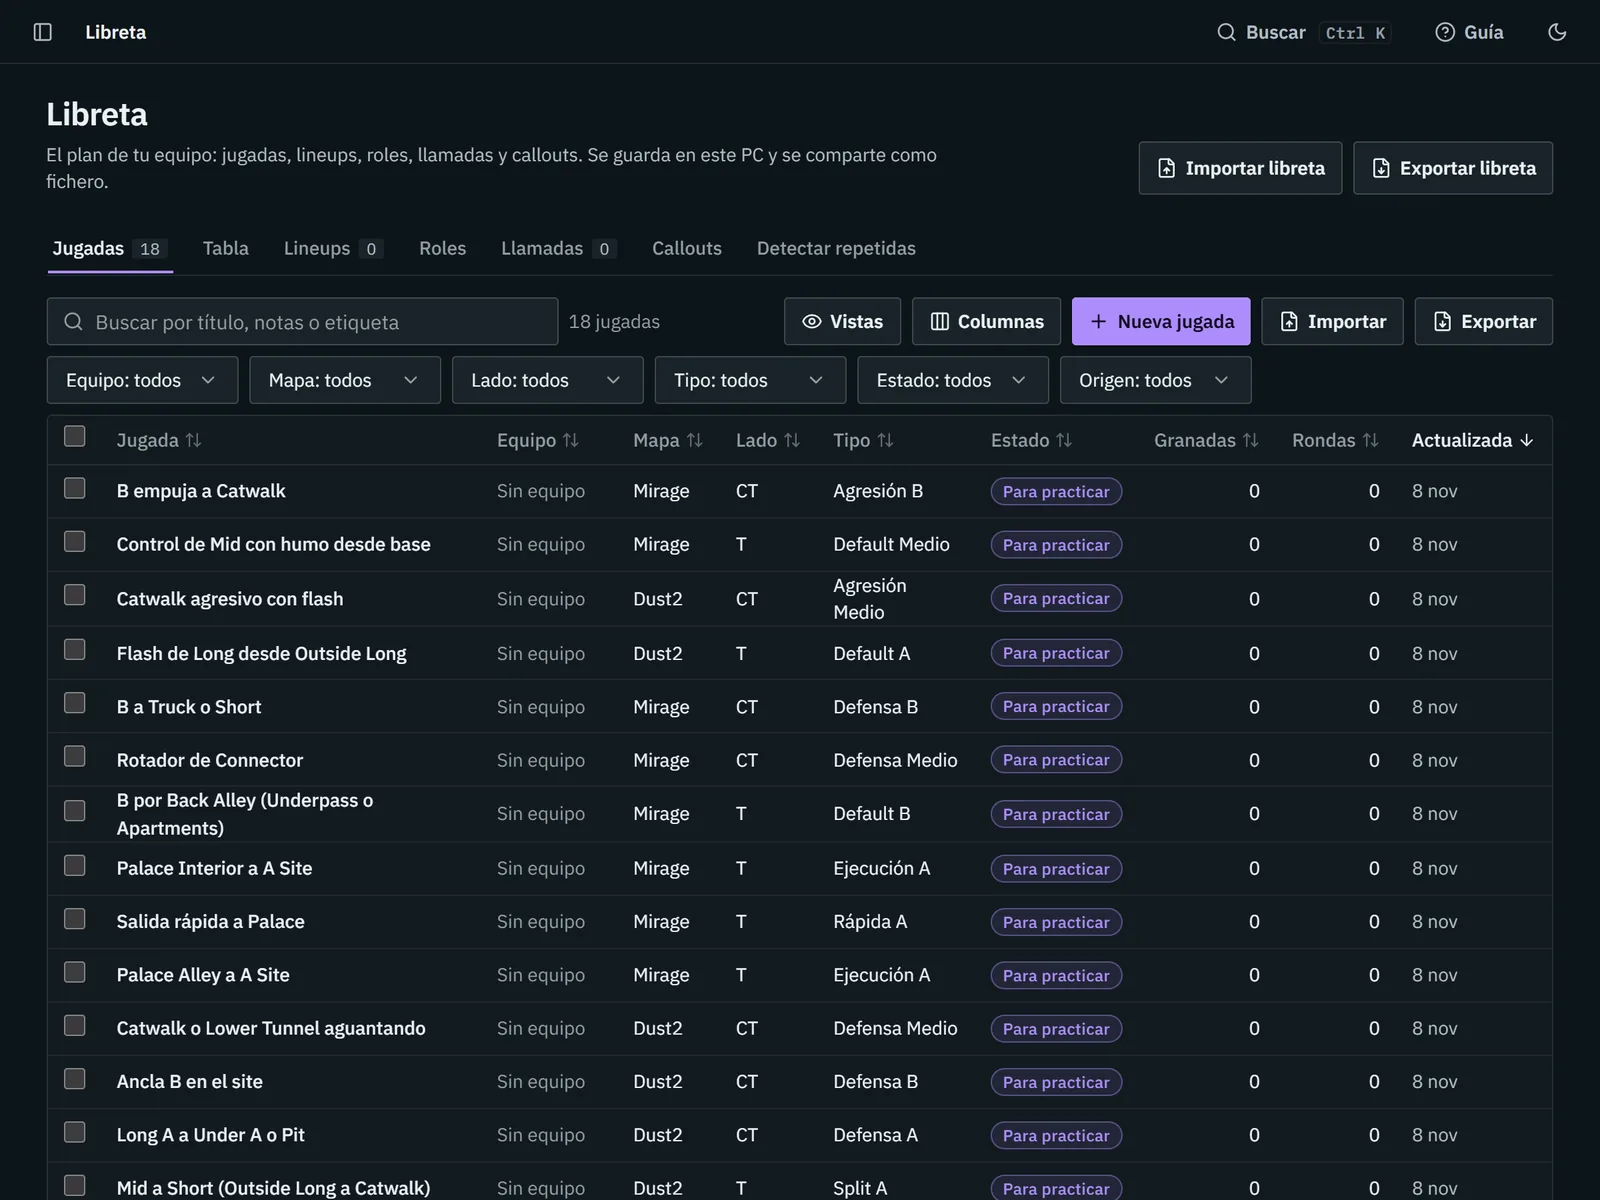
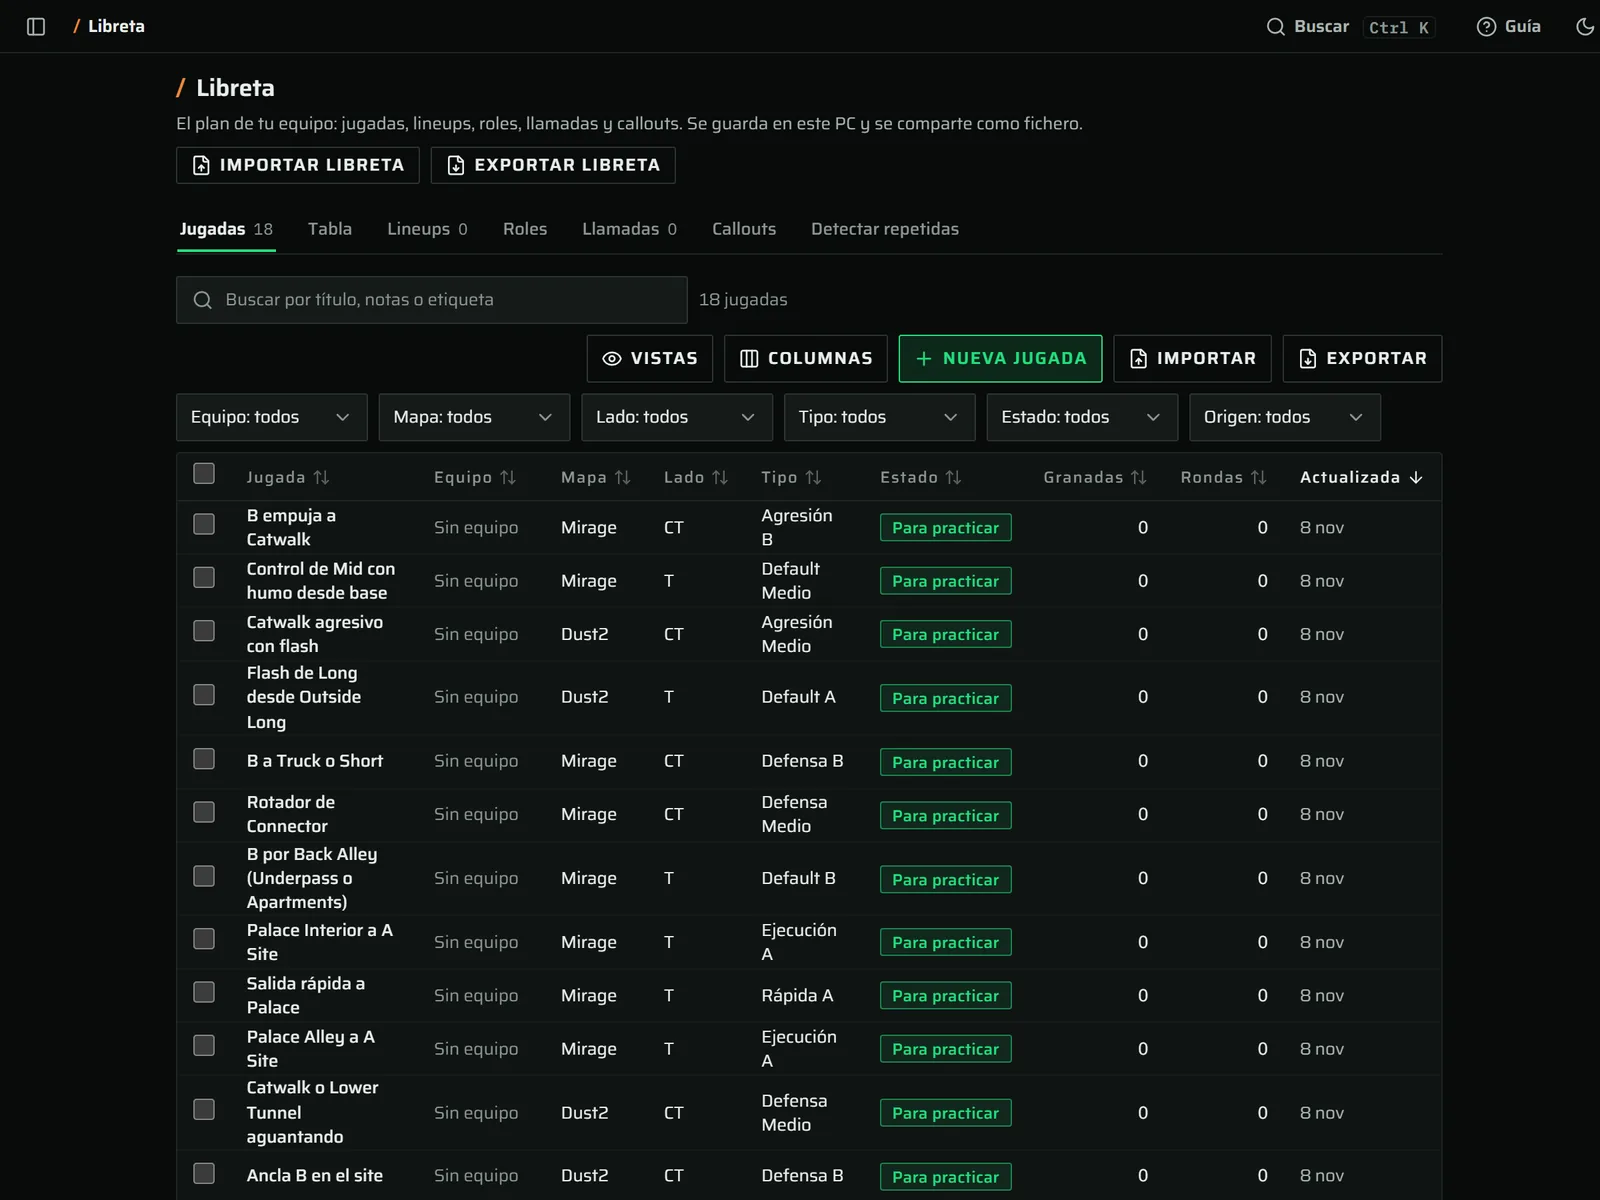
landing: capturas nuevas con datos reales de Iberian Soul
Sustituye las capturas moradas por pantallas del tema verde y reescribe
el visor con cifras reales: replay, bombsites, playbook, preparar,
estadísticas, probabilidad, partidos pro, lineups y libreta.

diff --git a/landing/lib/content.ts b/landing/lib/content.ts
@@ -85,27 +85,13 @@ export const VIEWER_TABS: readonly ViewerTab[] = [
     id: "replay",
     label: "Replay",
     shot: {
-      src: "/shots/partida-replay-heatmap.webp",
-      alt: "Replay 2D de Cache con el mapa de calor de posiciones de FUZOS en el lado T, y la lista de zonas con más actividad.",
-      caption: "Mapa de calor de un equipo en Cache, filtrado por lado y tramo de ronda.",
+      src: "/shots/replay.webp",
+      alt: "Replay 2D de la ronda 1 de Nemiga contra Iberian Soul en Mirage, con los diez jugadores sobre el radar, su vida, su dinero y la línea de tiempo de las 22 rondas.",
+      caption: "Nemiga contra Iberian Soul en Mirage, ronda a ronda, con cada jugador sobre el radar.",
       callouts: [
-        { value: "2747", label: "Posiciones en 15 rondas" },
-        { value: "33", label: "Muestras en Outside A" },
-        { value: "4", label: "Tramos de ronda" },
-      ],
-    },
-  },
-  {
-    id: "recorridos",
-    label: "Recorridos",
-    shot: {
-      src: "/shots/equipo-replay-patrones.webp",
-      alt: "Recorridos de ataque de Los Galacticos en Cache superpuestos sobre el radar, con el buscador de patrones y la lista de rondas.",
-      caption: "Todas las rutas de ataque de un equipo, y las rondas que cumplen un patrón.",
-      callouts: [
-        { value: "21/21", label: "Rondas con el patrón" },
-        { value: "57 %", label: "De ellas, ganadas" },
-        { value: "Caja", label: "Dibuja una zona y busca" },
+        { value: "22", label: "Rondas en el replay" },
+        { value: "10", label: "Jugadores en el radar" },
+        { value: "8 Hz", label: "Posiciones por segundo" },
       ],
     },
   },
@@ -113,13 +99,27 @@ export const VIEWER_TABS: readonly ViewerTab[] = [
     id: "bombsites",
     label: "Bombsites",
     shot: {
-      src: "/shots/equipo-bombsites.webp",
-      alt: "Tabla de bombsites de Los Galacticos: en Cache defendiendo, les atacan A el 56 % de las veces; atacando, ganan el 75 % de las rondas en A.",
-      caption: "Dónde ataca y dónde aguanta un rival, sitio a sitio.",
+      src: "/shots/bombsites.webp",
+      alt: "Tabla de bombsites de Iberian Soul en Mirage: defendiendo, les atacan A el 47 % de las veces; atacando A, plantan el 90 % y ganan el 60 % de las rondas.",
+      caption: "Dónde ataca y dónde aguanta Iberian Soul, sitio a sitio y mapa a mapa.",
       callouts: [
-        { value: "56 %", label: "Ataques rivales a A" },
-        { value: "75 %", label: "Ganadas atacando A" },
-        { value: "30 %", label: "Retakes ganados en A" },
+        { value: "47 %", label: "Ataques rivales a A" },
+        { value: "90 %", label: "Plantan cuando van a A" },
+        { value: "60 %", label: "Ganan atacando A" },
+      ],
+    },
+  },
+  {
+    id: "playbook",
+    label: "Playbook",
+    shot: {
+      src: "/shots/playbook.webp",
+      alt: "Playbook de Iberian Soul en Mirage de T: ganan el 75 % de sus ejecuciones y el 18 % de las rondas de control de mapa, en 23 rondas leídas.",
+      caption: "Las tácticas que repite el rival, cuántas veces y cuánto le funcionan.",
+      callouts: [
+        { value: "75 %", label: "Ganan sus ejecuciones" },
+        { value: "18 %", label: "Ganan con control de mapa" },
+        { value: "23", label: "Rondas de T en Mirage" },
       ],
     },
   },
@@ -127,13 +127,13 @@ export const VIEWER_TABS: readonly ViewerTab[] = [
     id: "preparar",
     label: "Preparar",
     shot: {
-      src: "/shots/equipo-preparar.webp",
-      alt: "Pantalla Preparar de Los Galacticos con la ficha de cada jugador: rol, rating de ClipHub, K/D, ADR, KPR y DPR en 107 rondas.",
-      caption: "Roles y forma de cada jugador del rival, mapa a mapa.",
+      src: "/shots/preparar.webp",
+      alt: "Pantalla Preparar de Iberian Soul con la ficha de sausoL, mopoz, alex, ag1l y dav1g: rol, rating de ClipHub, K/D, ADR, KPR y DPR en 219 rondas.",
+      caption: "Roles y forma de cada jugador del rival, antes de la llamada.",
       callouts: [
-        { value: "1,31", label: "Rating del entry" },
-        { value: "107", label: "Rondas leídas" },
-        { value: "5", label: "Mapas" },
+        { value: "1,20", label: "Rating de su entry" },
+        { value: "219", label: "Rondas leídas" },
+        { value: "11", label: "Mapas" },
       ],
     },
   },
@@ -141,13 +141,13 @@ export const VIEWER_TABS: readonly ViewerTab[] = [
     id: "estadisticas",
     label: "Estadísticas",
     shot: {
-      src: "/shots/equipo-estadisticas.webp",
-      alt: "Estadísticas por lado de Los Galacticos: 59 % de rondas ganadas de T y 57 % de CT, con pistolas, primera baja y trades frente a la media.",
+      src: "/shots/estadisticas.webp",
+      alt: "Estadísticas por lado de Iberian Soul: 51 % de rondas ganadas de T y 63 % de CT, con pistolas, primera baja, trades y utilidad frente a la media.",
       caption: "Cada cifra por lado, frente a la media de tu biblioteca.",
       callouts: [
-        { value: "59 %", label: "Rondas ganadas de T" },
-        { value: "+15 pp", label: "Sobre la media" },
-        { value: "57 %", label: "Rondas ganadas de CT" },
+        { value: "63 %", label: "Rondas ganadas de CT" },
+        { value: "+10 pp", label: "Sobre la media" },
+        { value: "82 %", label: "Pistolas ganadas de CT" },
       ],
     },
   },
@@ -155,13 +155,27 @@ export const VIEWER_TABS: readonly ViewerTab[] = [
     id: "probabilidad",
     label: "Probabilidad",
     shot: {
-      src: "/shots/partida-metricas.webp",
-      alt: "Gráfico de probabilidad de ganar cada ronda de Early Vacation contra FUZOS y las bajas que más movieron la probabilidad.",
-      caption: "Qué rondas se perdieron antes de empezar y qué bajas decidieron el partido.",
+      src: "/shots/probabilidad.webp",
+      alt: "Probabilidad de ganar cada ronda de Nemiga contra Iberian Soul en Mirage y las bajas que más la movieron, con khaN matando a dav1g en la ronda 6.",
+      caption: "Qué rondas se perdieron antes de empezar y qué bajas decidieron el mapa.",
       callouts: [
-        { value: "+82,9 pp", label: "La baja que más pesó" },
-        { value: "49 %", label: "Al empezar la ronda 1" },
-        { value: "15", label: "Rondas analizadas" },
+        { value: "+86,3 pp", label: "La baja que más pesó" },
+        { value: "52 %", label: "Al empezar la ronda 1" },
+        { value: "22", label: "Rondas analizadas" },
+      ],
+    },
+  },
+  {
+    id: "pro",
+    label: "Partidos pro",
+    shot: {
+      src: "/shots/partidas-pro.webp",
+      alt: "Lista de partidos pro de HLTV analizados por ClipHub: series al mejor de tres con sus vetos, sus mapas y su torneo, listas para abrir en el replay.",
+      caption: "Las series pro de los últimos días, con su veto, abiertas sin bajar la demo.",
+      callouts: [
+        { value: "0", label: "Demos que descargar" },
+        { value: "BO3", label: "Series con su veto" },
+        { value: "HLTV", label: "Partidos recientes" },
       ],
     },
   },
@@ -170,11 +184,11 @@ export const VIEWER_TABS: readonly ViewerTab[] = [
     label: "Lineups pro",
     shot: {
       src: "/shots/lineups.webp",
-      alt: "Lineups pro por mapa: Mirage con 765 lineups y 70 combos, Dust2 con 749, Ancient con 683, Cache, Nuke, Inferno y Anubis.",
+      alt: "Lineups pro por mapa: Mirage con 1107 lineups y 98 combos de 218 mapas pro, Dust2, Cache, Ancient, Nuke, Inferno y Anubis.",
       caption: "Las granadas que repiten los pros, leídas de sus demos.",
       callouts: [
-        { value: "765", label: "Lineups en Mirage" },
-        { value: "70", label: "Combos" },
+        { value: "1107", label: "Lineups en Mirage" },
+        { value: "98", label: "Combos" },
         { value: "7", label: "Mapas" },
       ],
     },
@@ -184,7 +198,7 @@ export const VIEWER_TABS: readonly ViewerTab[] = [
     label: "Libreta",
     shot: {
       src: "/shots/libreta.webp",
-      alt: "La libreta del equipo con 18 jugadas por mapa y lado: B empuja a Catwalk, control de Mid con humo desde base y otras.",
+      alt: "La libreta del equipo con 18 jugadas por mapa y lado: B empuja a Catwalk, control de Mid con humo desde base y otras, cada una con su estado.",
       caption: "El stratbook del equipo, compartido con todo el staff.",
       callouts: [
         { value: "18", label: "Jugadas" },
